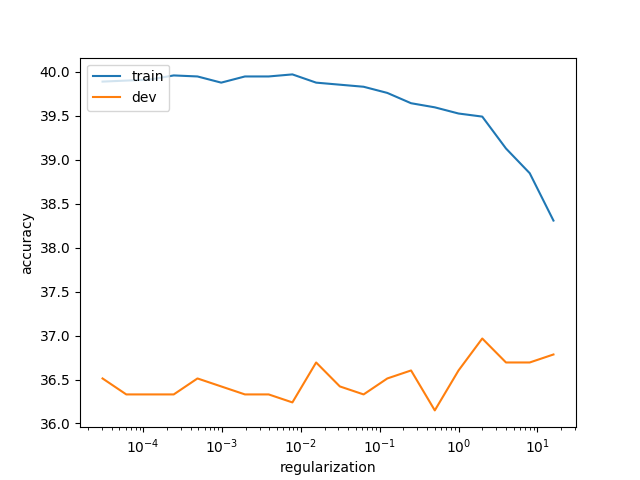
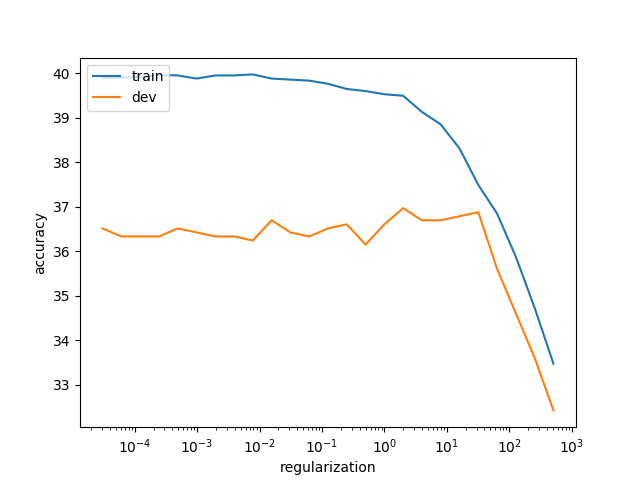
updates

diff --git a/q4_sentiment.py b/q4_sentiment.py
@@ -65,7 +65,7 @@ def getRegularizationValues():
     """
     values = None   # Assign a list of floats in the block below
     ### YOUR CODE HERE
-    values = [pow(2.0,i) for i in xrange(-15,5)]
+    values = [pow(2.0,i) for i in xrange(-15,10)]
     ### END YOUR CODE
     return sorted(values)
 
